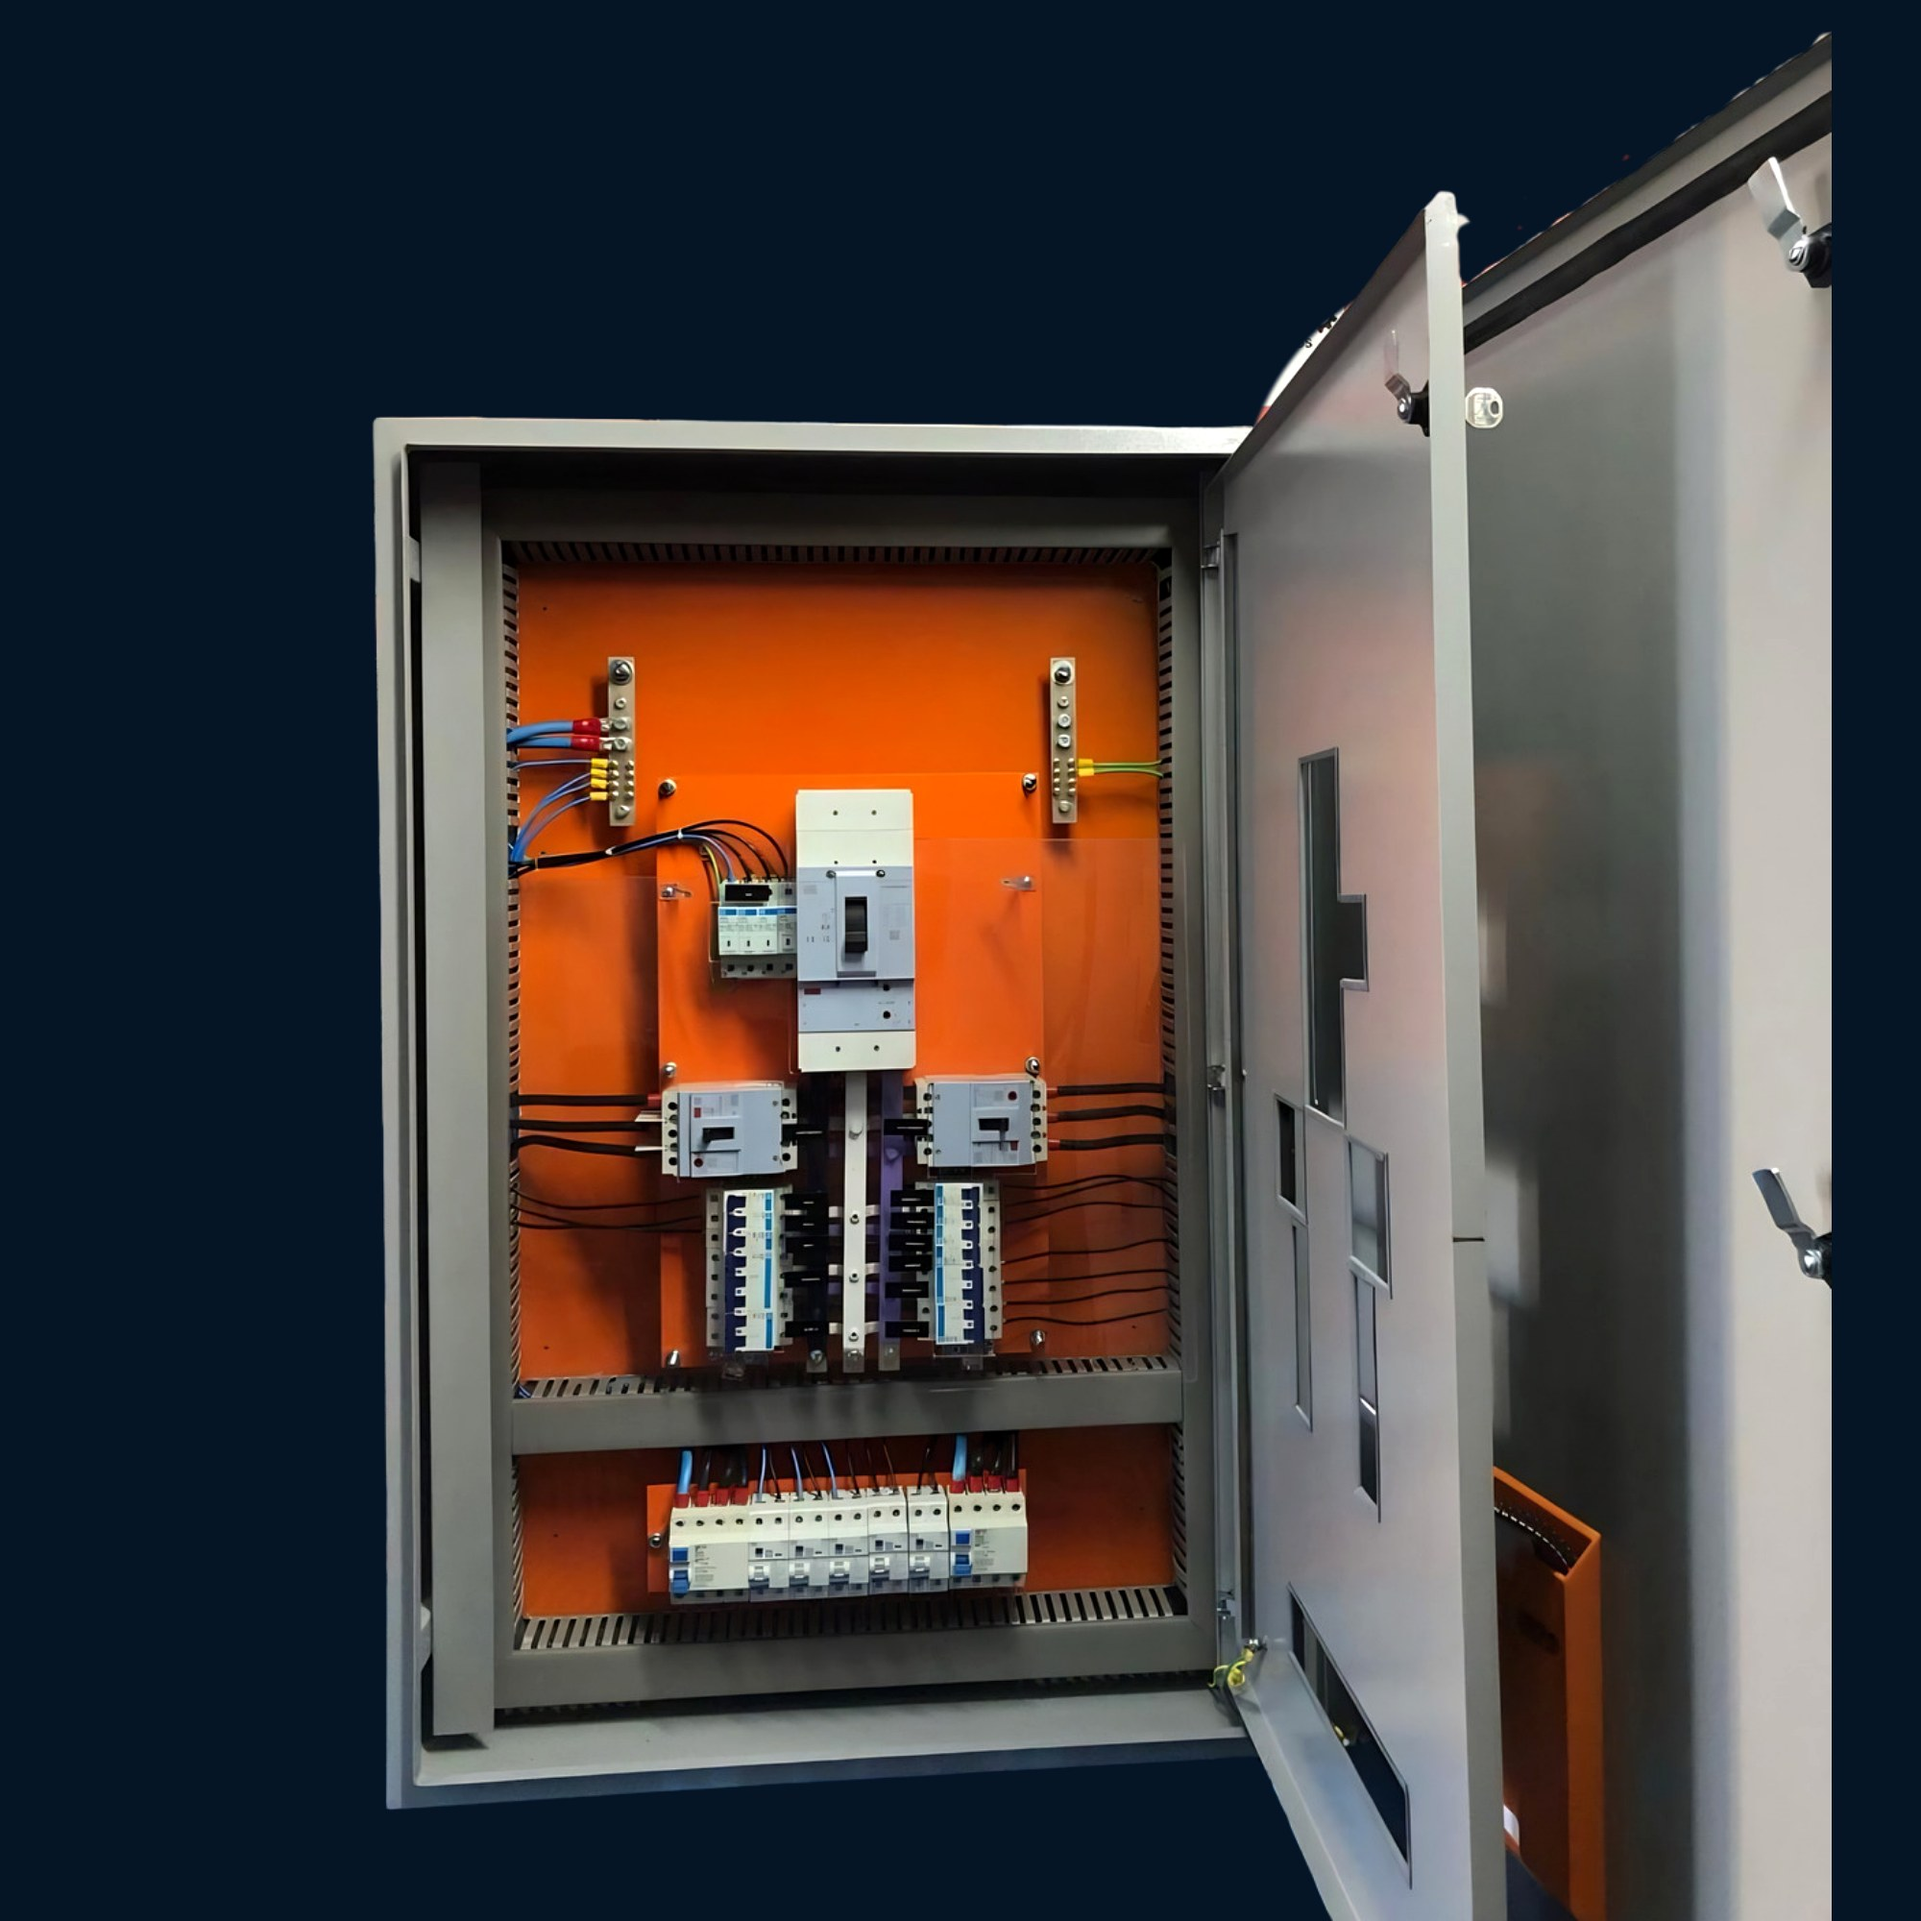
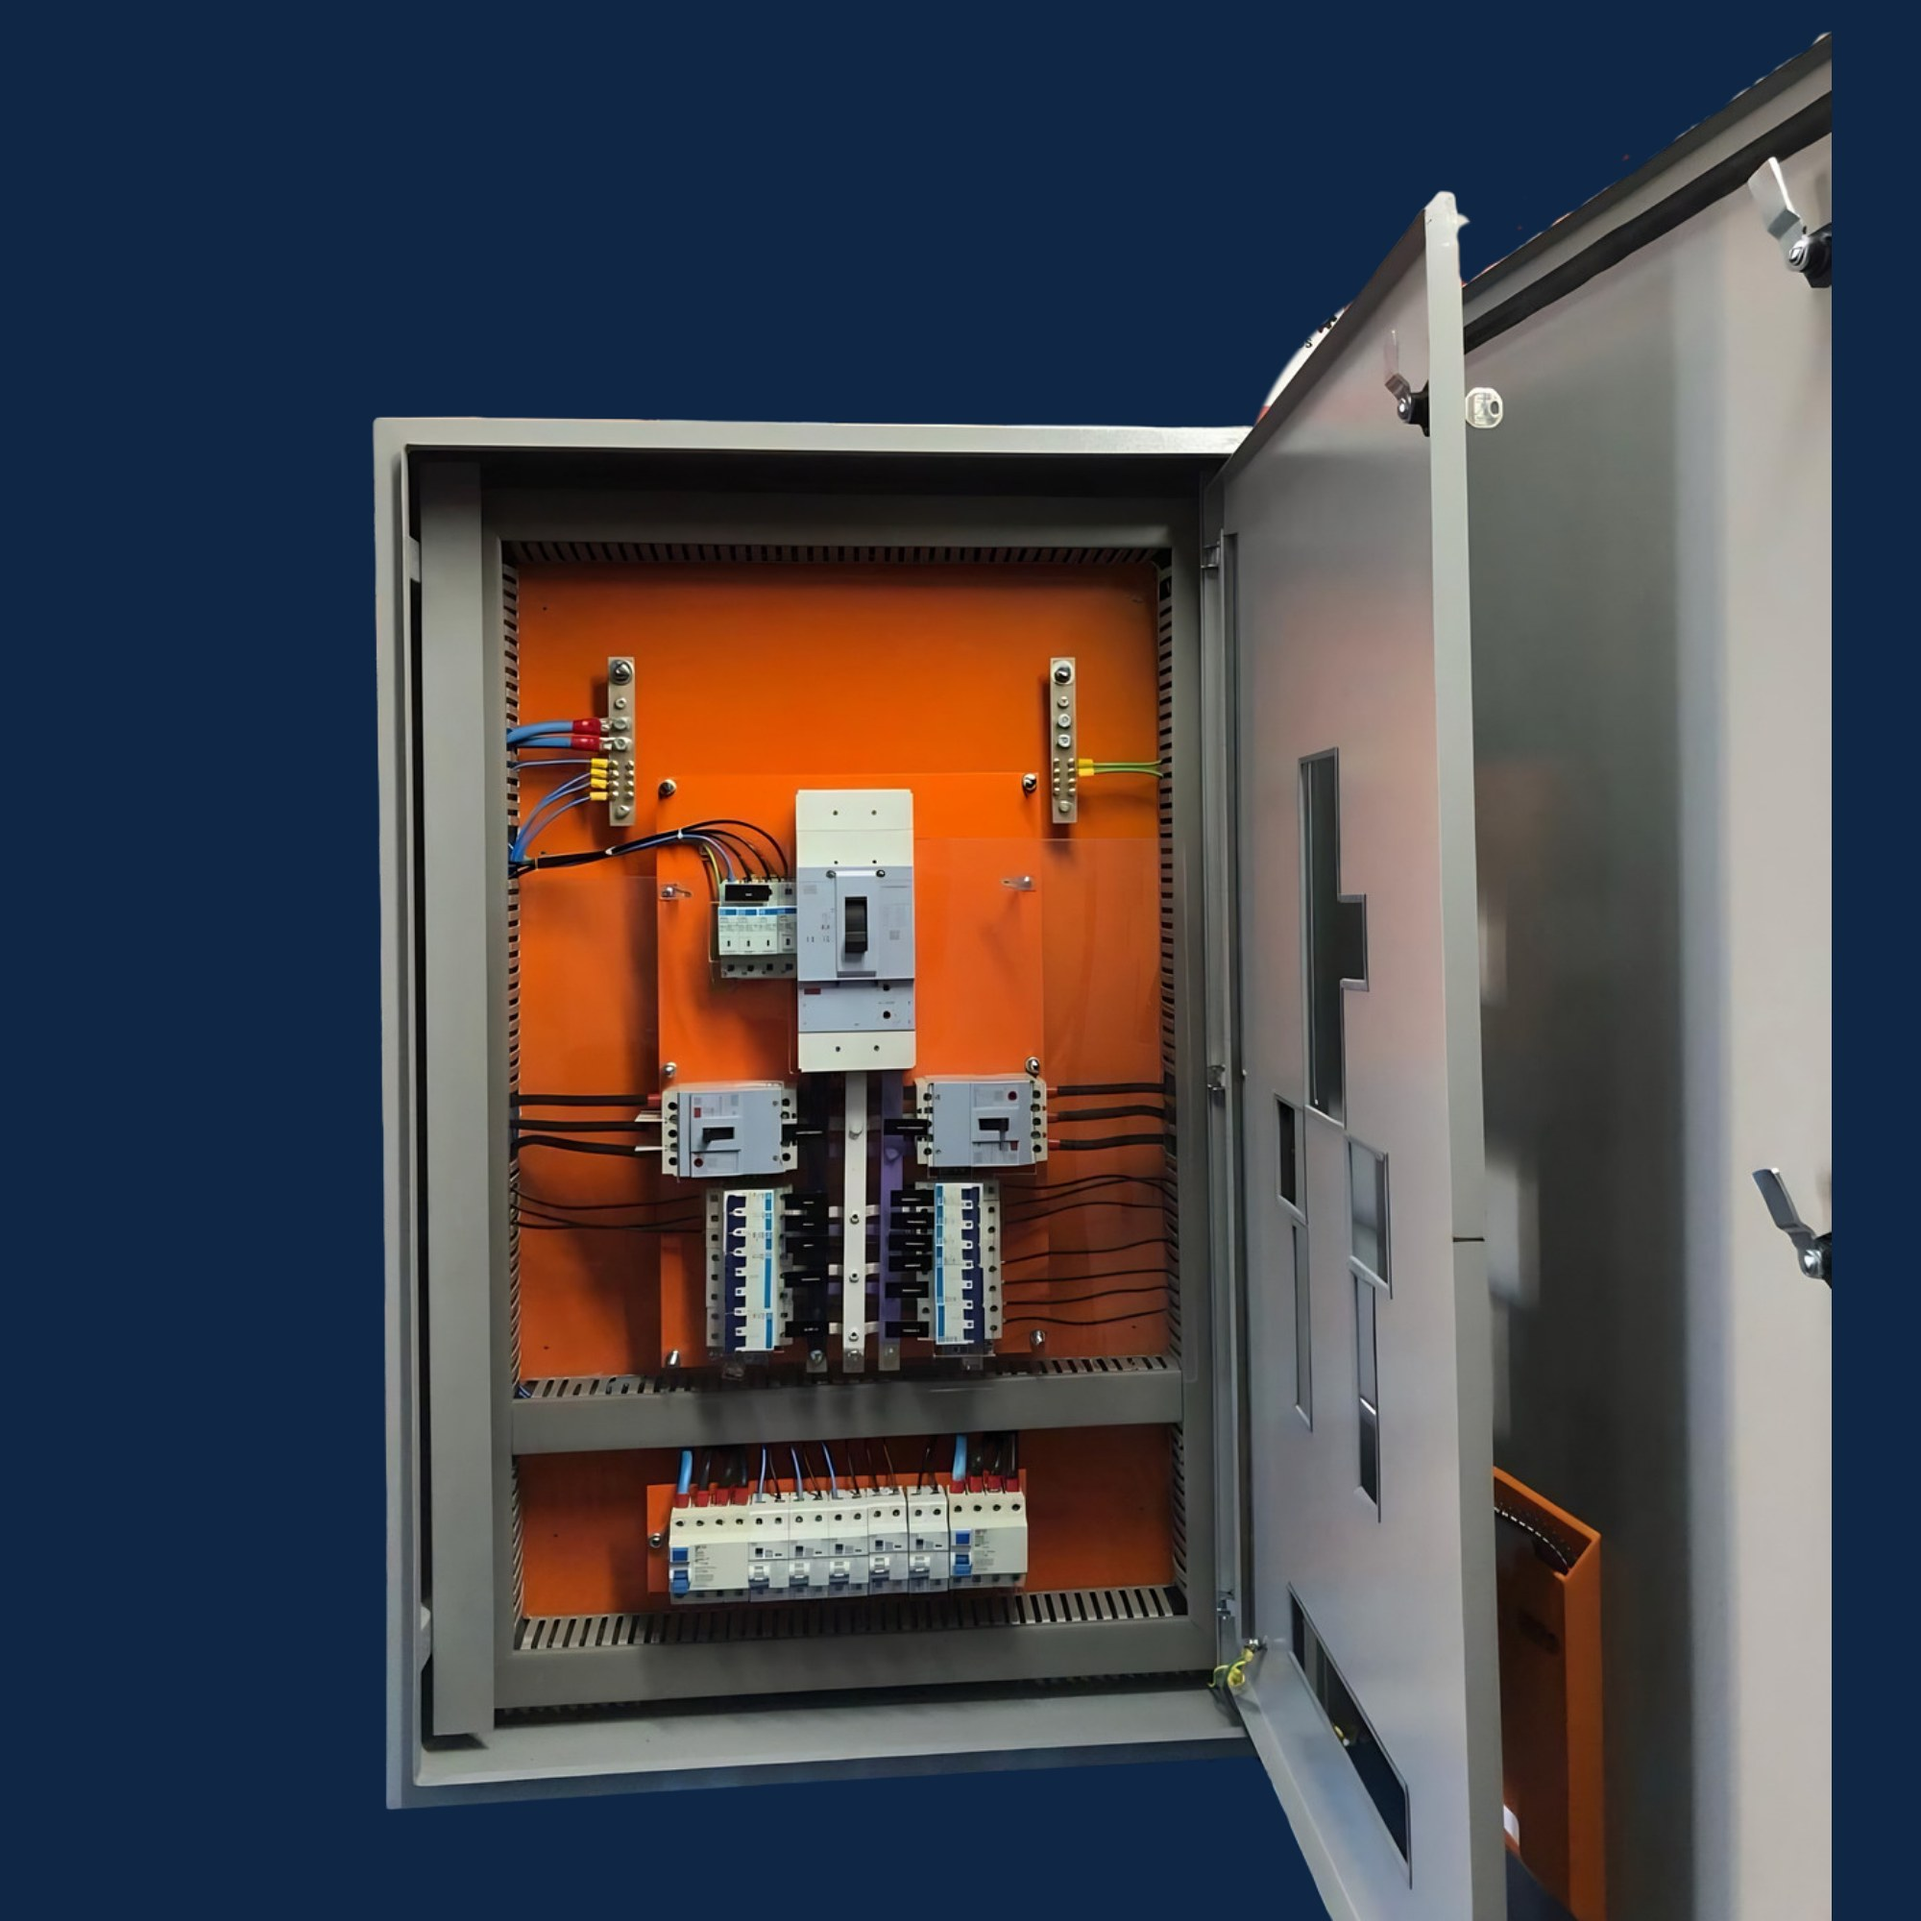
Carousel maior, fundo azul A&E nas fotos

diff --git a/styles.css b/styles.css
@@ -305,16 +305,16 @@ ul { list-style:none; }
 /* Hero Visual — Carousel */
 .hero-visual { position:relative; }
 .hero-carousel {
-    width:100%;aspect-ratio:4/3;
+    width:100%;aspect-ratio:1/1;
     border-radius:var(--radius-lg);overflow:hidden;
     border:2px solid rgba(255,255,255,0.1);
-    background:rgba(255,255,255,0.05);
+    background:#0f2744;
     position:relative;
     box-shadow:0 25px 80px rgba(0,0,0,0.4), 0 0 40px rgba(200,152,44,0.08);
 }
 .hero-carousel img {
     position:absolute;inset:0;
-    width:100%;height:100%;object-fit:cover;
+    width:100%;height:100%;object-fit:contain;
     opacity:0;
     transition:opacity 1s ease-in-out;
 }
